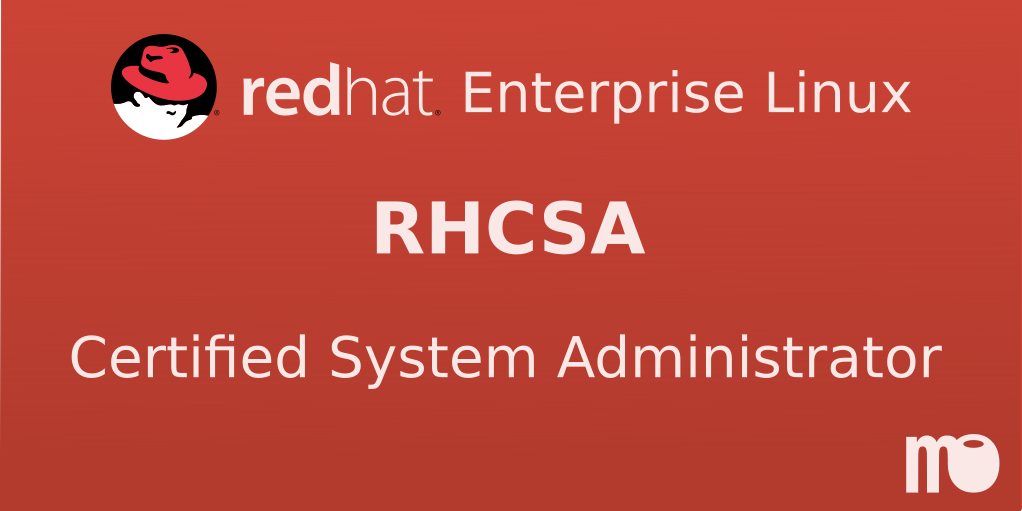
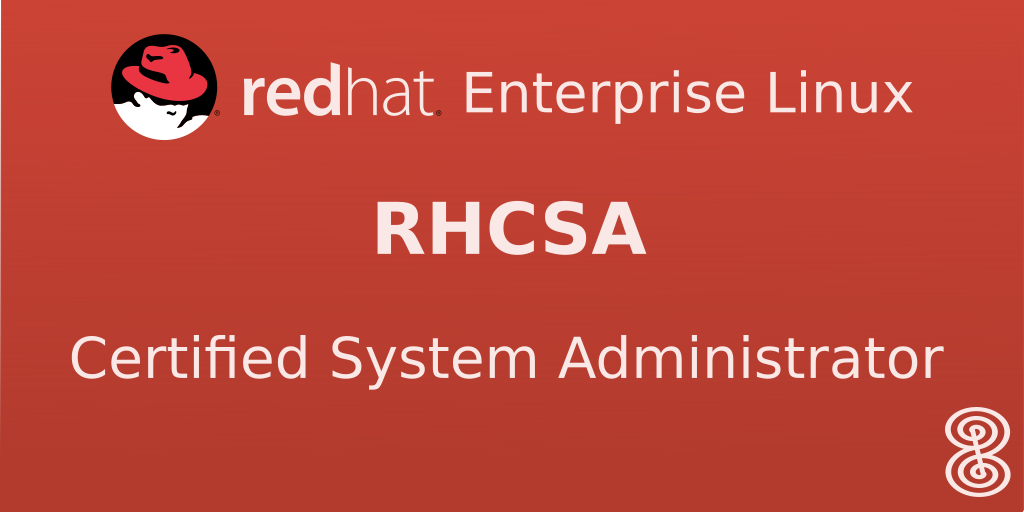
bandonga start

diff --git a/_posts/academy/2018-05-26-linux.md b/_posts/academy/2018-05-26-linux.md
@@ -31,7 +31,7 @@ Another worthy mention is the *arch* and *gentoo* independent distros. Highly cu
 * [Ubuntu Documentation](https://help.ubuntu.com/community/Servers)
 
 #### Course
-* [marolive - RHCSA: Red Hat Certified System Administrator](/RHCSA/0-start/)
+* [bandonga - RHCSA: Red Hat Certified System Administrator](/RHCSA/0-start/)
 * [Udemy - Red Hat: RHEL Technical Overview](https://www.udemy.com/red-hat-enterprise-linux-technical-overview/)
 * PAID [Udemy - Jason Cannon: Linux Administration Bootcamp](https://www.udemy.com/linux-administration-bootcamp/)
 * [edX - Red Hat: Fundamentals of RHEL](https://www.edx.org/course/fundamentals-red-hat-enterprise-linux-red-hat-rh066x)

diff --git a/_pages/home.md b/_pages/home.md
@@ -4,7 +4,7 @@ layout: splash
 header:
   overlay_color: "#5e616c"
   overlay_image: "/assets/images/home.jpg"
-  caption: 
+  caption:
 excerpt: A place to share information with you. Improve the skills you need for making
   the next step up in your career. Get articles and tips to improve life
   for you and those around.
@@ -34,7 +34,7 @@ feature_row:
   btn_label: Learn More
 intro:
 - excerpt: 'Get notified when we add new stuff &nbsp; [<i class="fab fa-twitter"></i>
-    @marolivetech](https://twitter.com/marolivetech){: .btn .btn--twitter}'
+    @bandonga](https://twitter.com/bandonga){: .btn .btn--twitter}'
 ---
 
 {% include feature_row id="intro" type="center" %}

diff --git a/_RHCSA/0-start.md b/_RHCSA/0-start.md
@@ -21,7 +21,7 @@ Each chapter will have an hands-on laboratory and a practice to simulate the exa
 * [Red Hat Documentation](https://access.redhat.com/documentation/en-us/red_hat_enterprise_linux)
 * [Red Hat Developer Resources](https://developers.redhat.com/topics/linux/)
 * [Red Hat Blog](https://rhelblog.redhat.com/)
-* [marolive Linux Resources]({{ site.baseurl }}{% post_url /academy/2018-05-26-linux %})
+* [bandonga - Linux Resources]({{ site.baseurl }}{% post_url /academy/2018-05-26-linux %})
 
 #### Course
 * PAID [Udemy - Linux Academy: RHCSA Prep](https://www.udemy.com/linux-academy-red-hat-certified-systems-administrator-prep/)

diff --git a/_drafts/CCNA/0-start.md b/_drafts/CCNA/0-start.md
@@ -21,7 +21,7 @@ Each chapter will have an hands-on laboratory and a practice (whitout the comman
 * [Red Hat Documentation](https://access.redhat.com/documentation/en-us/red_hat_enterprise_linux)
 * [Red Hat Developer Resources](https://developers.redhat.com/topics/linux/)
 * [Red Hat Blog](https://rhelblog.redhat.com/)
-* [marolive Linux Resources]({{ site.baseurl }}{% post_url /academy/2018-05-26-linux %})
+* [bandonga Linux Resources]({{ site.baseurl }}{% post_url /academy/2018-05-26-linux %})
 
 #### Course
 * PAID [Udemy - Linux Academy: RHCSA Prep](https://www.udemy.com/linux-academy-red-hat-certified-systems-administrator-prep/)

diff --git a/_1Z0-133/0-start.md b/_1Z0-133/0-start.md
@@ -40,7 +40,7 @@ Each topic will have an experimental laboratory, to practice the knowledge learn
 * [Documentation](https://docs.oracle.com/middleware/1212/wls/index.html)
 * [YouTube channel](http://www.youtube.com/user/OracleWebLogic)
 * [Blog](https://blogs.oracle.com/weblogicserver/)
-* [marolive Weblogic Resources]({{ site.baseurl }}{% post_url /academy/2018-03-01-weblogic %})
+* [bandonga Weblogic Resources]({{ site.baseurl }}{% post_url /academy/2018-03-01-weblogic %})
 
 #### Course
 * [Udemy - Weblogic 12c Essentials](https://www.udemy.com/learn-oracle-weblogic-12c-essentials)

diff --git a/_posts/academy/2018-03-01-weblogic.md b/_posts/academy/2018-03-01-weblogic.md
@@ -33,7 +33,7 @@ The WLS can also run the Java components of Oracle FMW, such as OSB, SOA or WebC
 * [Blog](https://blogs.oracle.com/weblogicserver/)
 
 #### Course
-* [marolive - 1Z0-133 Oracle WebLogic Server 12c: Administration I](/1Z0-133/0-start/)
+* [bandonga - 1Z0-133 Oracle WebLogic Server 12c: Administration I](/1Z0-133/0-start/)
 * [Udemy - Weblogic 12c Essentials](https://www.udemy.com/learn-oracle-weblogic-12c-essentials)
 * [PAID Udemy - Weblogic 12c Administrators](https://www.udemy.com/oracle-weblogic-12c-for-administrators/)
 

diff --git a/_pages/about.md b/_pages/about.md
@@ -1,11 +1,9 @@
 ---
 title: About
 permalink: "/about/"
-excerpt: Marolive is powered by Jekyll, using Minimal Mistakes adapted theme.
+excerpt: bandonga is powered by Jekyll, using Minimal Mistakes adapted theme.
 footer: true
 last_modified_at: 2018-01-23 22:22:23 +00:00
 ---
 
-Marolive is powered by Jekyll, using Minimal Mistakes adapted theme.
-
-
+bandonga is powered by Jekyll, using Minimal Mistakes adapted theme.

diff --git a/README.md b/README.md
@@ -1,2 +1,2 @@
-# maro.live
-Repository for the maro.live page
+# bandonga
+Repository for the bandonga.com page
